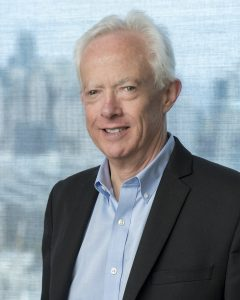
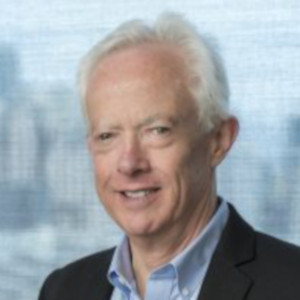
update images

diff --git a/2024/agenda/index.html b/2024/agenda/index.html
@@ -155,7 +155,7 @@
 <div style="float:left;width:100%;">
 	
 	<span class="name_frame">
-		<a href="../speakers/" target="_top">
+		<a href="../speakers/#ambrogi" target="_top">
 			<div class="mini_pic" style="	background-image: url('../images/people/ambrogi_75.jpg');">
 				<img src="../images/space.gif" style="width:75px;height:75px;"/>
 			</div>
@@ -163,27 +163,27 @@
 		</a> (moderator)
 	</span>
 	<span class="name_frame">
-		<a href="../speakers/" target="_top">
-			<div class="mini_pic" style="	background-image: url('../images/people/wallbot_75.jpg');">
+		<a href="../speakers/#schafer" target="_top">
+			<div class="mini_pic" style="	background-image: url('../images/people/schafer_75.jpg');">
 				<img src="../images/space.gif" style="width:75px;height:75px;"/>
 			</div>
 			Jacqueline Schafer
 		</a>
 	</span>
 	<span class="name_frame">
-		<a href="../speakers/" target="_top">
-			<div class="mini_pic" style="	background-image: url('../images/people/wallbot_75.jpg');">
+		<a href="../speakers/#mehrota" target="_top">
+			<div class="mini_pic" style="	background-image: url('../images/people/mehrota_75.jpg');">
 				<img src="../images/space.gif" style="width:75px;height:75px;"/>
 			</div>
 			Devshi Mehrota
 		</a>
 	</span>
 	<span class="name_frame">
-		<a href="../speakers/" target="_top">
-			<div class="mini_pic" style="	background-image: url('../images/people/wallbot_75.jpg');">
+		<a href="../speakers/#peterson" target="_top">
+			<div class="mini_pic" style="	background-image: url('../images/people/peterson_75.jpg');">
 				<img src="../images/space.gif" style="width:75px;height:75px;"/>
 			</div>
-			TBD
+			Kara Peterson
 		</a>
 	</span>
 	<span class="name_frame">
@@ -247,16 +247,16 @@
 <div style="float:left;width:100%;">
 
 	<span class="name_frame">
-		<a href="../speakers/" target="_top">
-			<div class="mini_pic" style="	background-image: url('../images/people/wallbot_75.jpg');">
+		<a href="../speakers/#glover" target="_top">
+			<div class="mini_pic" style="	background-image: url('../images/people/glover_75.jpg');">
 				<img src="../images/space.gif" style="width:75px;height:75px;"/>
 			</div>
 			Sam Glover
 		</a> (moderator)
 	</span>
 	<span class="name_frame">
-		<a href="../speakers/" target="_top">
-			<div class="mini_pic" style="	background-image: url('../images/people/wallbot_75.jpg');">
+		<a href="../speakers/#colpoys" target="_top">
+			<div class="mini_pic" style="	background-image: url('../images/people/colpoys_75.jpg');">
 				<img src="../images/space.gif" style="width:75px;height:75px;"/>
 			</div>
 			Lisa Colpoys
@@ -298,8 +298,8 @@
 <div style="float:left;width:100%;">
 
 	<span class="name_frame">
-		<a href="../speakers/" target="_top">
-			<div class="mini_pic" style="	background-image: url('../images/people/wallbot_75.jpg');">
+		<a href="../speakers/#rogers" target="_top">
+			<div class="mini_pic" style="	background-image: url('../images/people/rogers_75.jpg');">
 				<img src="../images/space.gif" style="width:75px;height:75px;"/>
 			</div>
 			Julia Rogers

diff --git a/2024/speakers/index.html b/2024/speakers/index.html
@@ -77,8 +77,17 @@
 <ul>
 	<li><a href="#ambrogi">Robert J. Ambrogi</a> (<a href="https://www.lawnext.com" target="_blank">LawSites</a>)</li>
 	<li><a href="#colarusso">David Colarusso</a> (<a href="http://suffolklitlab.org/" target="_blank">LIT Lab</a>, Suffolk University Law School)</li>
+	<li><a href="#"></a>Lisa Colpoys (Justice Innovation Lead for the Filing Fairness Project)</li>
+	<li><a href="#"></a>Sarah Hoskinson (Director of Access to Justice - Kansas Judicial Branch)</li>
+	<li><a href="#"></a>Devshi Mehrota (CEO and co-founder of JusticeText)</li>
+	<li><a href="#"></a>Bill Palin (Lead Developer, Free Law Project)</li>
+	<li><a href="#"></a>Kara Peterson (co-founder descrybe.ai)</li>
+	<li><a href="#"></a>Julia Rogers (CEO HelloPrenup)</li>
+	<li><a href="#"></a>Jacqueline Schafer (CEO Clearbrief)</li>
 	<li><a href="#steenhuis">Quinten Steenhuis</a> (<a href="http://suffolklitlab.org/" target="_blank">LIT Lab</a>, Suffolk University Law School)</li>
+	<li><a href="#teninbaum">Gabriel Teninbaum</a> (<a href="https://sites.suffolk.edu/legaltech/" target="_blank">LIT Institute</a>, Suffolk University Law School)</li>
 	<li><a href="#willey">Bryce Willey</a> (<a href="http://suffolklitlab.org/" target="_blank">LIT Lab</a>, Suffolk University Law School)</li>
+
 	<li style="background:yellow;">Additional names coming soon...</li>
 </ul>
 <hr style="height:1px;border:none;color:#333;background-color:#ccc;" />
